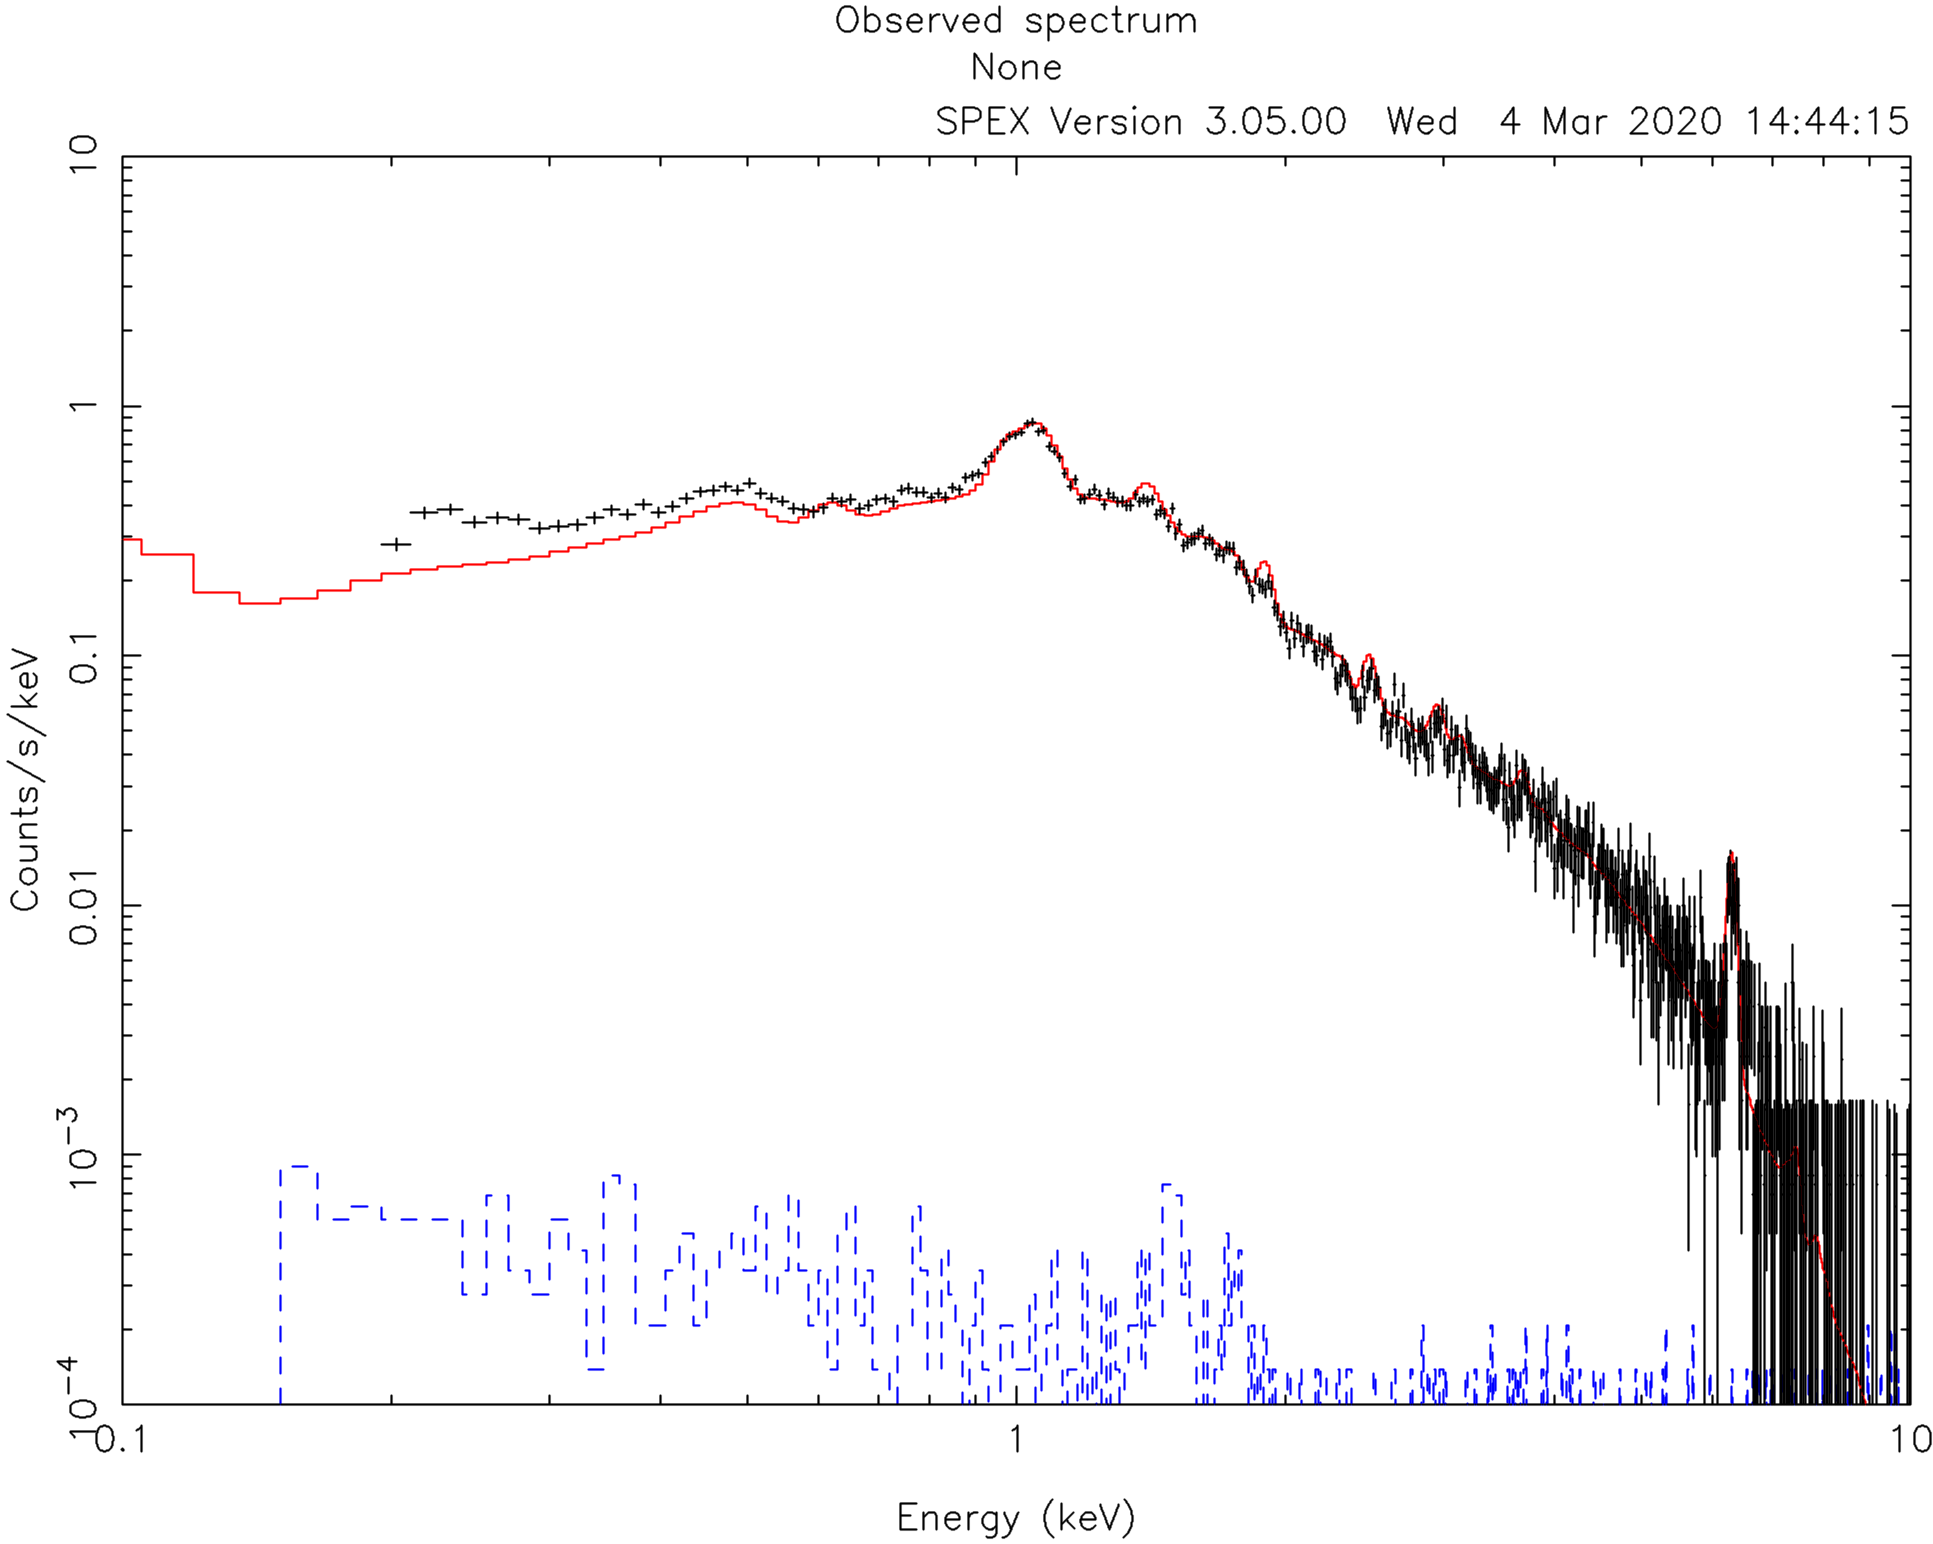
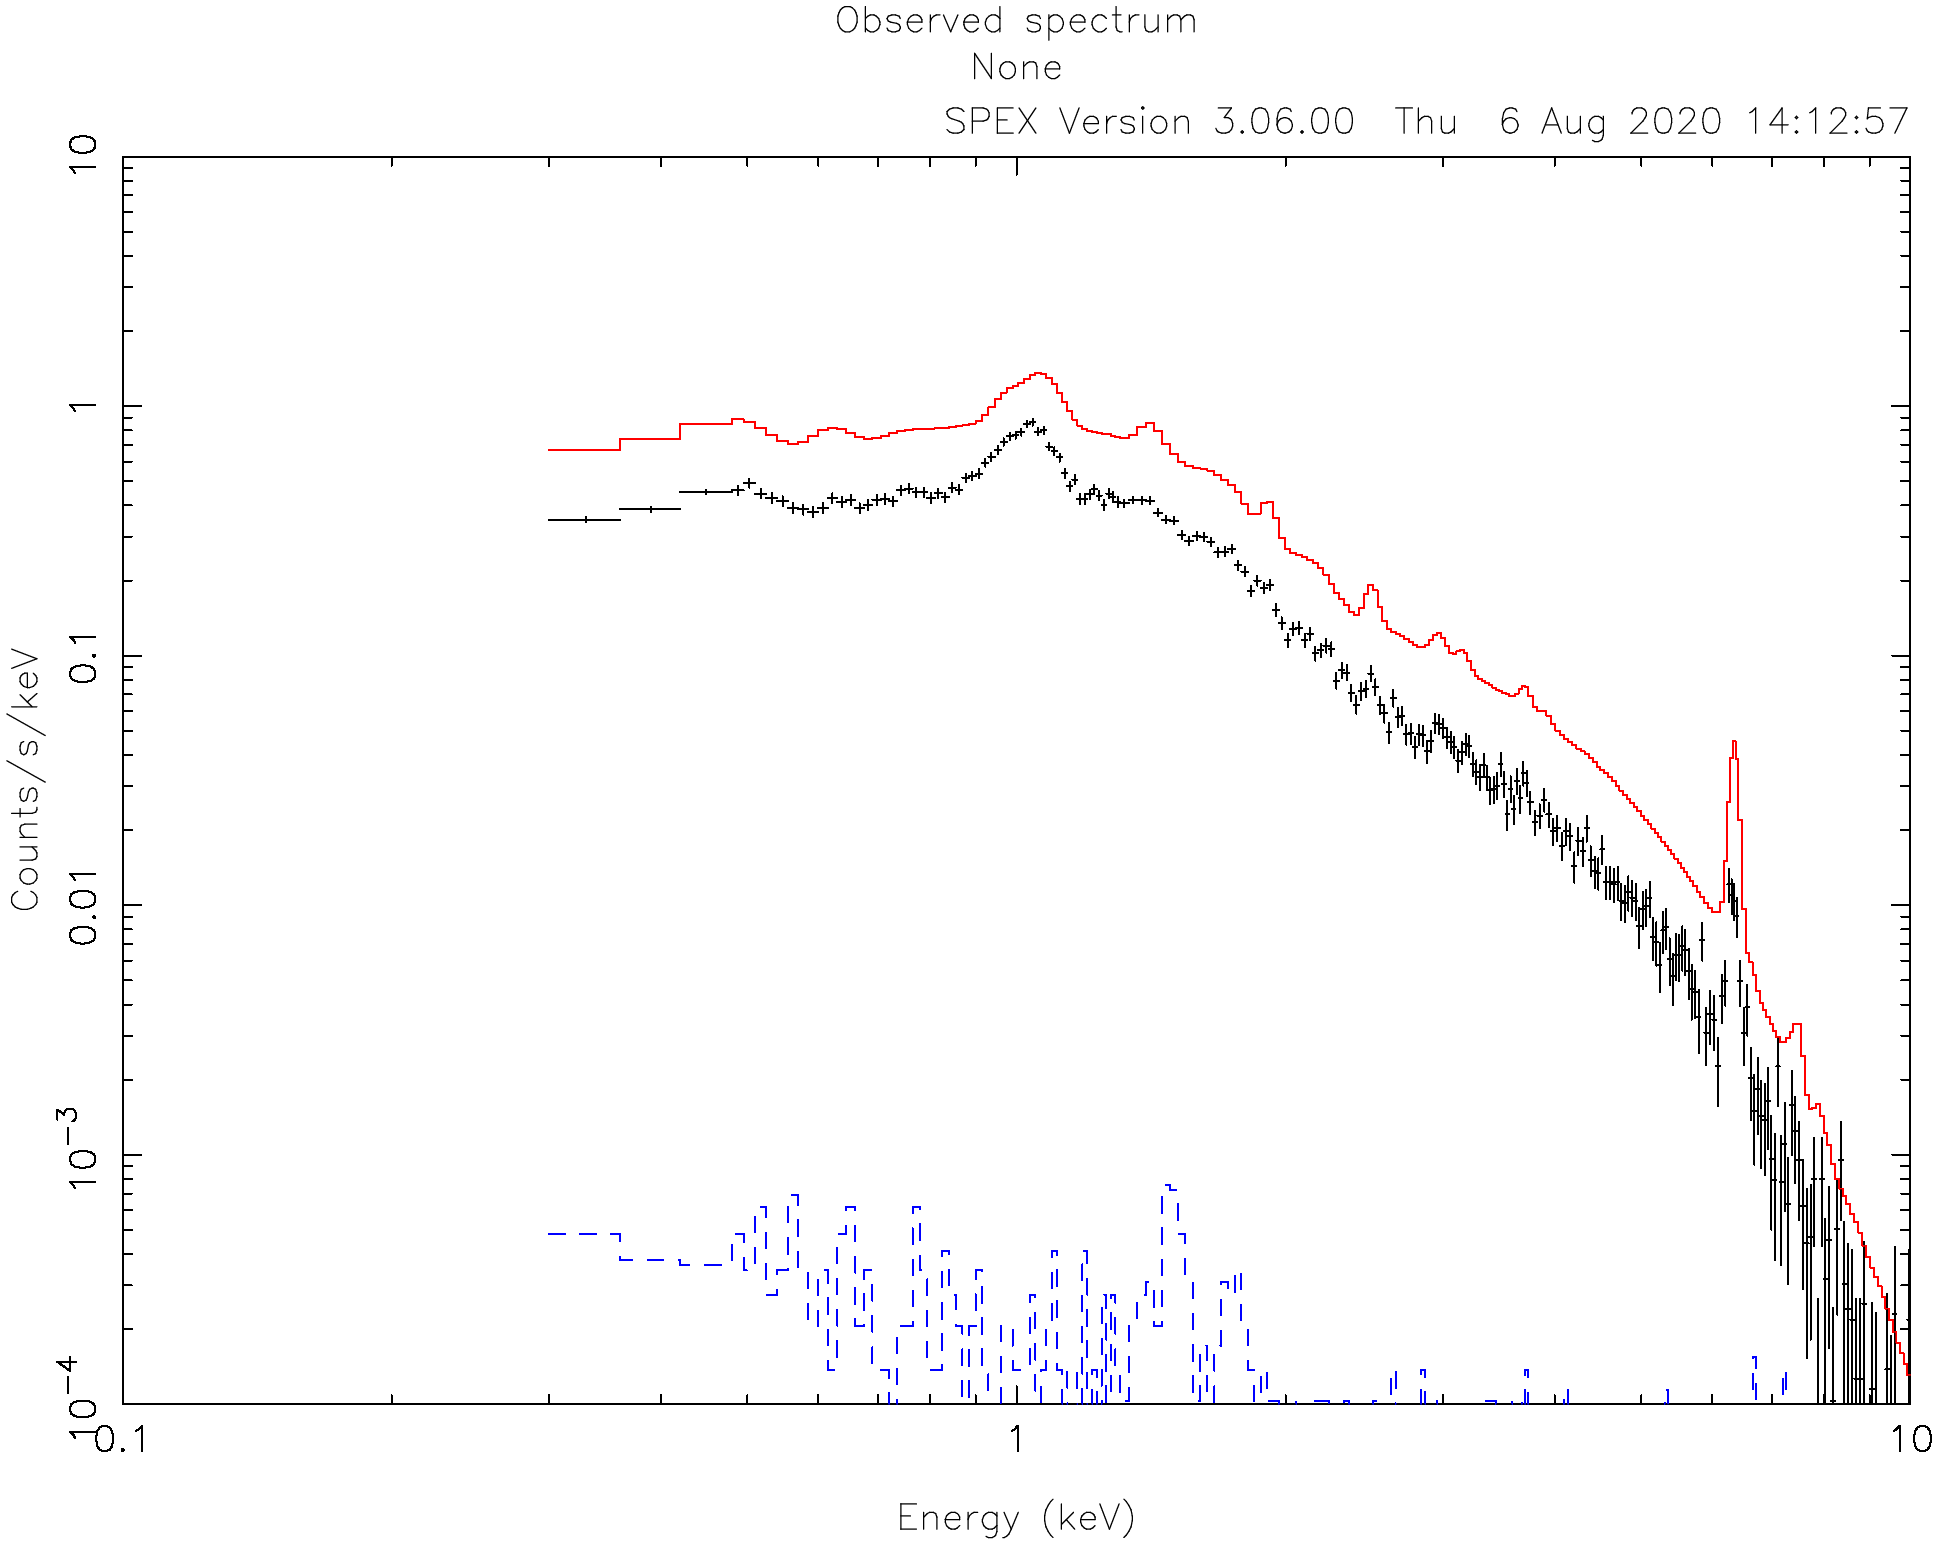
Made a few changes to the simple CCD spectrum analysis thread according to issue #8. The ignore and bin command are now discussed before setting the model. New figures have been made to make the thread consistent again.

diff --git a/source/threads/ccdspectrum/ccdspectrum.rst b/source/threads/ccdspectrum/ccdspectrum.rst
@@ -30,7 +30,7 @@ one run of the program. To start SPEX do this:
 ::
 
    user@linux:~> spex
-    Welcome user to SPEX version 3.05.00
+    Welcome user to SPEX version 3.06.00
 
    SPEX>
 
@@ -92,6 +92,26 @@ By default, the ranges of the axes are usually too broad. For this spectrum, the
 .. figure:: ccd3.png
    :width: 600
 
+Select good data and bin the spectrum
+-------------------------------------
+
+Before we start fitting, we can make sure that only trustworthy data is fitted. For MOS1, for example, we know that
+the calibration is valid for the energy range between roughly 0.3 keV and 10 keV. To fit only the good spectral
+interval, we need to ignore the parts at low and high energies. This is done using the ``ignore`` command.
+
+In addition, we can bin the spectrum. To automatically rebin to the recommended (optimal) bin size, one can use
+the ``obin`` command. This command bins the spectrum optimally based on the instrument resolution and statistics.
+
+::
+
+    SPEX> ignore 0:0.3 unit kev
+    SPEX> ignore 10:100 unit kev
+    SPEX> obin 0.3:10 unit kev
+    SPEX> plot
+
+.. figure:: ccd4.png
+   :width: 600
+
 
 Define the model
 ----------------
@@ -136,7 +156,7 @@ components.
 
 Calculating and plotting the model unsurprisingly results in a curve that is not near to the data.
 
-.. figure:: ccd4.png
+.. figure:: ccd5.png
    :width: 600
 
 
@@ -154,7 +174,7 @@ We can set the guess parameters as follows:
 
     SPEX> par 1 1 z v 0.05
     SPEX> par 1 1 z s t
-    SPEX> par 1 2 t v 5E-4
+    SPEX> par 1 2 t v 2E-4
     SPEX> par 1 2 t s f
     SPEX> par 1 2 nh v 1E-4
     SPEX> par 1 3 norm v 1000.
@@ -162,7 +182,7 @@ We can set the guess parameters as follows:
     SPEX> ca
     SPEX> pl
 
-.. figure:: ccd5.png
+.. figure:: ccd6.png
    :width: 600
 
 As we can see from the image, the first guess of the model is already in the right direction.
@@ -175,7 +195,12 @@ the distance, it is wise to set that distance in SPEX (:ref:`sec:distance`):
     SPEX> dist 0.05 z
 
 The command above sets the distance to 0.05 z and makes sure that the luminosities are correctly calculated.
-Note that this distance change also affects the values of the normalisation of the models!
+Note that this distance change also affects the values of the normalisation of the models! So, we increase
+the normalisation to keep the model reasonably close to the data:
+
+::
+
+    SPEX> par 1 3 norm v 1E+8
 
 Fit the model
 -------------
@@ -187,24 +212,23 @@ to be set only once per session. A subsequent ``fit`` command (:ref:`sec:fit`) s
 
     SPEX> fit print 1
     SPEX> fit
-       50865.8      5.000E-02  1.000E-04  1.000E+03   3.00
-       6159.59      5.225E-02  3.728E-04   485.       2.21
-       5298.40      5.318E-02  3.756E-04   543.       2.30
-       5280.39      5.503E-02  3.791E-04   545.       2.29
-       5273.64      5.579E-02  3.774E-04   545.       2.30
-       5271.29      5.634E-02  3.784E-04   545.       2.30
-       5269.85      5.656E-02  3.784E-04   545.       2.30
-       5269.84      5.651E-02  3.784E-04   545.       2.30
-       5269.81      5.652E-02  3.783E-04   545.       2.30
-       5269.81      5.652E-02  3.783E-04   545.       2.30
+       42102.6              5  5.000E-02  1.000E-04  1.000E+08   3.00
+       2461.87             10  5.404E-02  9.087E-05  2.021E+08   2.04
+       428.533             15  5.439E-02  1.041E-04  2.412E+08   2.31
+       414.925             20  5.437E-02  9.425E-05  2.429E+08   2.37
+       414.651             25  5.426E-02  9.229E-05  2.428E+08   2.37
+       414.532             30  5.408E-02  9.269E-05  2.428E+08   2.37
+       414.525             35  5.412E-02  9.281E-05  2.428E+08   2.37
+       414.524             42  5.411E-02  9.270E-05  2.428E+08   2.37
+       414.524             48  5.411E-02  9.265E-05  2.428E+08   2.37
     --------------------------------------------------------------------------------------------------
     sect comp mod  acro parameter with unit     value      status    minimum   maximum lsec lcom lpar
 
-       1    1 reds z    Redshift             5.6520663E-02 thawn    -1.0      1.00E+10
+       1    1 reds z    Redshift             5.4108180E-02 thawn    -1.0      1.00E+10
        1    1 reds flag Flag: cosmo=0, vel=1  0.000000     frozen    0.0       1.0
 
-       1    2 hot  nh   X-Column (1E28/m**2) 3.7826155E-04 thawn     0.0      1.00E+20
-       1    2 hot  t    Temperature (keV)    5.0000002E-04 frozen   5.00E-04  1.00E+03
+       1    2 hot  nh   X-Column (1E28/m**2) 9.2653019E-05 thawn     0.0      1.00E+20
+       1    2 hot  t    Temperature (keV)    1.9999999E-04 frozen   2.00E-04  1.00E+03
        1    2 hot  rt   T(balance) / T(spec)  1.000000     frozen   1.00E-04  1.00E+04
        1    2 hot  fcov Covering fraction     1.000000     frozen    0.0       1.0
        1    2 hot  v    RMS Velocity (km/s)   100.0000     frozen    0.0      3.00E+05
@@ -244,15 +268,15 @@ to be set only once per session. A subsequent ``fit`` command (:ref:`sec:fit`) s
        1    2 hot  30   Abundance Zn          1.000000     frozen    0.0      1.00E+10
        1    2 hot  file File electr.distrib.
 
-       1    3 cie  norm ne nX V (1E64/m**3)   545.4489     thawn     0.0      1.00E+20
-       1    3 cie  t    Temperature (keV)     2.300449     thawn    5.00E-04  1.00E+03
+       1    3 cie  norm ne nX V (1E64/m**3)  2.4279381E+08 thawn     0.0      1.00E+20
+       1    3 cie  t    Temperature (keV)     2.372914     thawn    5.00E-04  1.00E+03
        1    3 cie  sig  Sigma                 0.000000     frozen    0.0      1.00E+04
        1    3 cie  sup  Sigma up              0.000000     frozen    0.0      1.00E+04
        1    3 cie  logt T grid (lin/log)      1.000000     frozen    0.0       1.0
        1    3 cie  ed   El  dens (1E20/m**3) 9.9999998E-15 frozen   1.00E-22  1.00E+10
        1    3 cie  it   Ion temp  (keV)       1.000000     frozen   1.00E-04  1.00E+07
        1    3 cie  rt   T(balance) / T(spec)  1.000000     frozen   1.00E-04  1.00E+04
-       1    3 cie  vmic Microturb vel (km/s)  0.000000     frozen    0.0      3.00E+05
+       1    3 cie  vrms RMS Velocity (km/s)   0.000000     frozen    0.0      3.00E+05
        1    3 cie  ref  Reference atom        1.000000     frozen    1.0       30.
        1    3 cie  01   Abundance H           1.000000     frozen    0.0      1.00E+10
        1    3 cie  02   Abundance He          1.000000     frozen    0.0      1.00E+10
@@ -290,81 +314,36 @@ to be set only once per session. A subsequent ``fit`` command (:ref:`sec:fit`) s
 
 
     Instrument     1 region    1 has norm    1.00000E+00 and is frozen
-    ---------------------------------------------------------------------------------------------
-    sect comp mod  acro parameter with unit      sect comp mod  acro parameter with unit  correl.
-
-       1    1 reds z    Redshift             <->    1    2 hot  nh   X-Column (1E28/m**2)   0.006
-       1    1 reds z    Redshift             <->    1    3 cie  norm ne nX V (1E64/m**3)    0.035
-       1    1 reds z    Redshift             <->    1    3 cie  t    Temperature (keV)      0.200
-       1    2 hot  nh   X-Column (1E28/m**2) <->    1    3 cie  norm ne nX V (1E64/m**3)    0.582
-       1    2 hot  nh   X-Column (1E28/m**2) <->    1    3 cie  t    Temperature (keV)     -0.173
-       1    3 cie  norm ne nX V (1E64/m**3)  <->    1    3 cie  t    Temperature (keV)      0.069
-
 
     --------------------------------------------------------------------------------
      Fluxes and restframe luminosities between   2.0000     and    10.000     keV
 
      sect comp mod   photon flux   energy flux nr of photons    luminosity
                   (phot/m**2/s)      (W/m**2)   (photons/s)           (W)
-        1    3 cie    4.23975      2.265908E-15  5.845445E+45  3.101105E+30
+        1    3 cie    4.13667      2.229383E-15  2.655905E+51  1.422295E+36
 
+    --------------------------------------------------------------------------------
      Fit method        : Classical Levenberg-Marquardt
      Fit statistic     : C-statistic
-     C-statistic       :      5269.81
-     Expected C-stat   :       660.01 +/-        34.94
-     Chi-squared value :   2307566.25
-     Degrees of freedom:       791
+     C-statistic       :       414.52
+     Expected C-stat   :       247.13 +/-        21.92
+     Chi-squared value :       528.16
+     Degrees of freedom:       239
      W-statistic       :         0.00
 
 At the end of the optimization step, SPEX prints out an overview of the fit parameters and the fit statistics. Here we
-can see that the fit improved, but there is still a lot of room for improvement.
-
-.. figure:: ccd6.png
-   :width: 600
-
-
-Do additional selections on the data
-------------------------------------
-
-In the beginning, we did not ignore possible bad energy intervals in the spectrum. For MOS1, for example, we know that
-the calibration is valid for the energy range between roughly 0.3 keV and 10 keV. To fit only the good spectral
-interval, we need to ignore the parts at low and high energies.
-
-::
-
-    SPEX> ignore 0:0.3 unit kev
-    SPEX> ignore 10:100 unit kev
-    SPEX> plot
+can see that the fit improved, but there is still room for improvement.
 
 .. figure:: ccd7.png
-   :width: 600
-
-
-The plot shows that the data points below 0.3 keV have disappeared. When we fit again, the C-statistics value improves
-a lot:
-
-::
-
-    SPEX> fit
-     ...
-     Fit method        : Classical Levenberg-Marquardt
-     Fit statistic     : C-statistic
-     C-statistic       :       798.47
-     Expected C-stat   :       615.03 +/-        33.31
-     Chi-squared value :      3421.64
-     Degrees of freedom:       643
-     W-statistic       :         0.00
-
-.. figure:: ccd8.png
    :width: 600
 
 
 Fitting abundances
 ------------------
 
-Although the C-statistics improved, there are still residuals in the spectrum, especially around the strongest spectral
-lines. This is because the metal abundances in the gas are still fixed to 1.0. We can let the abundances vary in the
-optimization by setting them to thawn:
+Although the C-statistics are not too bad, there are still residuals in the spectrum, especially around the strongest
+spectral lines. This is because the metal abundances in the gas are still fixed to 1.0. We can let the abundances vary
+in the optimization by setting them to thawn:
 
 ::
 
@@ -380,17 +359,17 @@ optimization by setting them to thawn:
 
 The optimization leads to an even better fit:
 
-.. figure:: ccd9.png
+.. figure:: ccd8.png
    :width: 600
 
 ::
 
      Fit method        : Classical Levenberg-Marquardt
      Fit statistic     : C-statistic
-     C-statistic       :       654.72
-     Expected C-stat   :       614.18 +/-        33.29
-     Chi-squared value :      3157.79
-     Degrees of freedom:       635
+     C-statistic       :       266.80
+     Expected C-stat   :       247.12 +/-        21.91
+     Chi-squared value :       366.77
+     Degrees of freedom:       231
      W-statistic       :         0.00
 
 
@@ -406,20 +385,21 @@ Below we calculate, for example, the error on the best fit temperature:
      parameter          C-stat      Delta          Delta
        value            value       parameter     C-stat
     ----------------------------------------------------
-       2.34612          655.90     -2.367735E-02    1.18
-       2.34973          655.56     -2.005935E-02    0.84
-       2.34806          655.60     -2.173662E-02    0.89
-       2.34709          655.83     -2.270699E-02    1.12
-       2.34757          655.78     -2.222180E-02    1.06
-       2.34781          655.72     -2.197933E-02    1.01
-       2.34793          655.68     -2.186084E-02    0.96
-       2.39347          655.50      2.367735E-02    0.79
-       2.41715          658.33      4.735494E-02    3.62
-       2.39347          655.50      2.367735E-02    0.79
-       2.39526          655.67      2.547121E-02    0.95
-       2.39577          655.74      2.597785E-02    1.03
-       2.39553          655.69      2.574086E-02    0.97
-     Parameter   1    3 t   :    2.3698     Errors:  -2.18608E-02 ,   2.57409E-02
+       2.33348          267.68     -2.246547E-02    0.89
+       2.31101          270.23     -4.493093E-02    3.44
+       2.33348          267.68     -2.246547E-02    0.89
+       2.33247          267.69     -2.346587E-02    0.90
+       2.32425          268.52     -3.169394E-02    1.73
+       2.32836          268.05     -2.758002E-02    1.26
+       2.33042          267.87     -2.552295E-02    1.07
+       2.33127          267.79     -2.466774E-02    1.00
+       2.37841          267.71      2.246547E-02    0.92
+       2.40087          270.28      4.493093E-02    3.49
+       2.37841          267.71      2.246547E-02    0.92
+       2.37914          267.77      2.319646E-02    0.98
+       2.37940          267.78      2.345586E-02    0.99
+       2.37974          267.81      2.379751E-02    1.02
+     Parameter   1    3 t   :    2.3559     Errors:  -2.46677E-02 ,   2.37975E-02
 
 The error command reports the best fit value for the temperature and the lower and upper 1 sigma (68%) confidence
 level.
